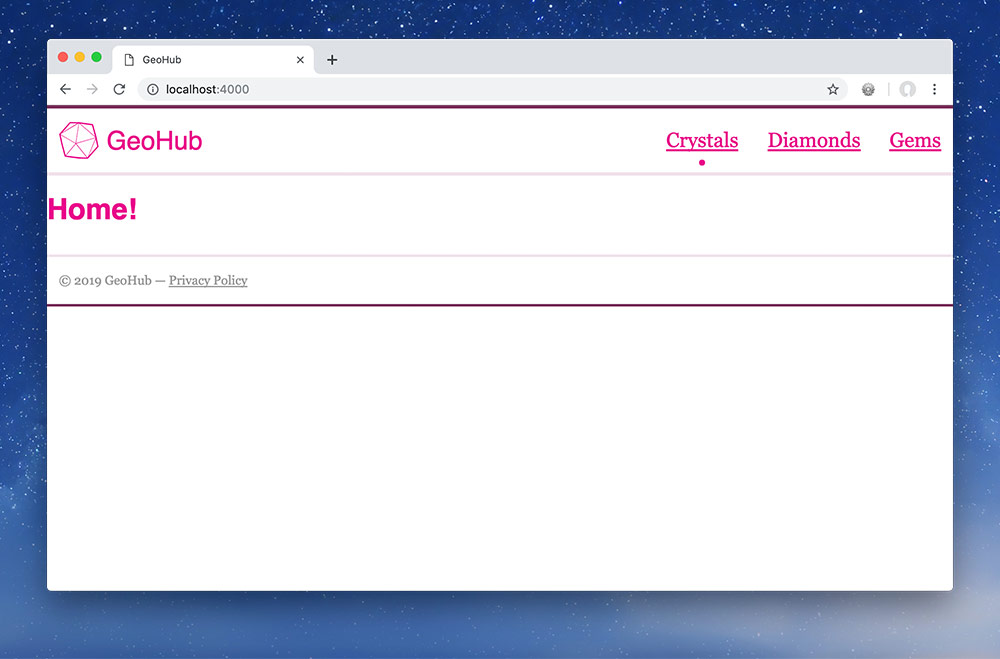
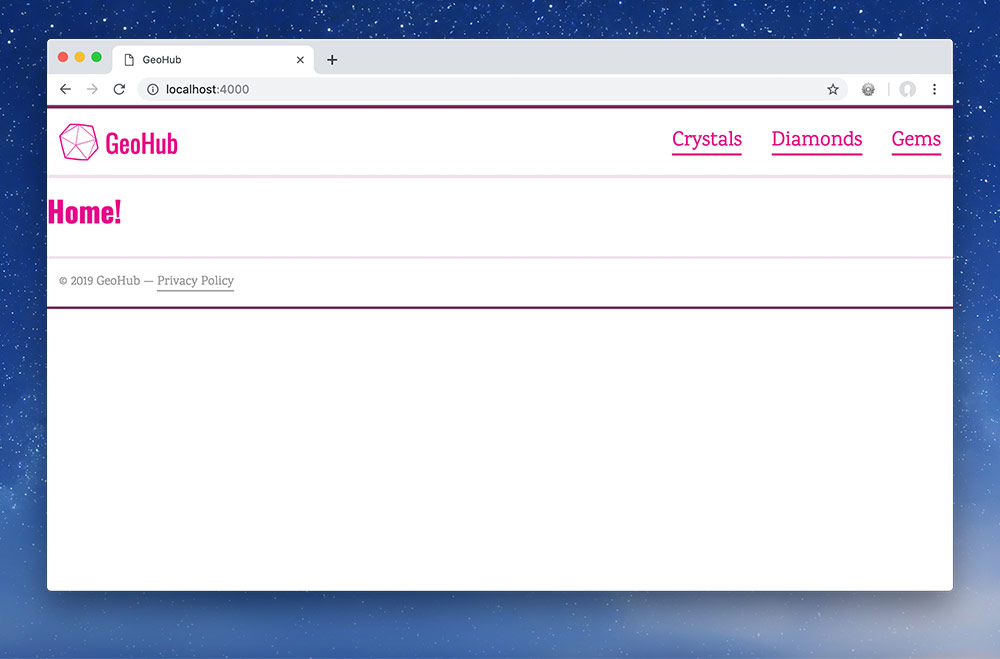
Replace all the code snippets & screenshots that were missing Web Fonts

Changed region(s): [[0.062, 0.1821, 0.961, 0.2731], [0.062, 0.3945, 0.961, 0.4856], [0.031, 0.3035, 0.155, 0.3642]]

diff --git a/sharing-code-with-layouts.md b/sharing-code-with-layouts.md
@@ -77,6 +77,7 @@ steps:
         <title>GeoHub</title>
         <meta name="viewport" content="width=device-width,initial-scale=1">
         <link href="/css/main.css" rel="stylesheet">
+        <link href="https://fonts.googleapis.com/css?family=Karma:400,600|Oswald:400,700" rel="stylesheet">
       </head>
       <body>
 
@@ -91,6 +92,11 @@ steps:
           We only need to connect our `main.css` file because it’s the magic Jekyll generator file that combines all the CSS from all our patterns (& grids, type, etc.) into one large, single file.
 
           Don’t forget to start the `href` with a `/` as we’ve been doing for all paths this term.
+      - num: 8
+        text: |
+          Don’t forget to attach your Google (or Typekit) font to the layout—like we normally do—or your website will display in web-safe fonts.
+
+          It’s as simple as using the `css` shortcode, then pasting the URL from within your `_config.yml` file—there’s not need to go back to the Google Fonts or Typekit websites.
 
   - title: "Copy the header pattern"
     before: |
@@ -111,6 +117,7 @@ steps:
         <title>GeoHub</title>
         <meta name="viewport" content="width=device-width,initial-scale=1">
         <link href="/css/main.css" rel="stylesheet">
+        <link href="https://fonts.googleapis.com/css?family=Karma:400,600|Oswald:400,700" rel="stylesheet">
       </head>
       <body>
 
@@ -119,9 +126,9 @@ steps:
       </body>
       </html>
     lines:
-      - num: "1-9,13-14"
+      - num: "1-10,14-15"
         fade: true
-      - num: 11
+      - num: 12
         text: |
           Just paste that include statement right into your layout.
 
@@ -140,6 +147,7 @@ steps:
         <title>GeoHub</title>
         <meta name="viewport" content="width=device-width,initial-scale=1">
         <link href="/css/main.css" rel="stylesheet">
+        <link href="https://fonts.googleapis.com/css?family=Karma:400,600|Oswald:400,700" rel="stylesheet">
       </head>
       <body>
 
@@ -150,9 +158,9 @@ steps:
       </body>
       </html>
     lines:
-      - num: "1-9,15-16"
+      - num: "1-10,16-17"
         fade: true
-      - num: 13
+      - num: 14
         text: |
           Just paste that footer include statement right into your layout.
 
@@ -173,6 +181,7 @@ steps:
         <title>GeoHub</title>
         <meta name="viewport" content="width=device-width,initial-scale=1">
         <link href="/css/main.css" rel="stylesheet">
+        <link href="https://fonts.googleapis.com/css?family=Karma:400,600|Oswald:400,700" rel="stylesheet">
       </head>
       <body>
 
@@ -183,9 +192,9 @@ steps:
       </body>
       </html>
     lines:
-      - num: "1-11,13-16"
+      - num: "1-12,14-17"
         fade: true
-      - num: 12
+      - num: 13
         text: |
           Type Jekyll’s page content placeholder variable in the layout exactly where you want the code from all your pages to show.
     after: |
